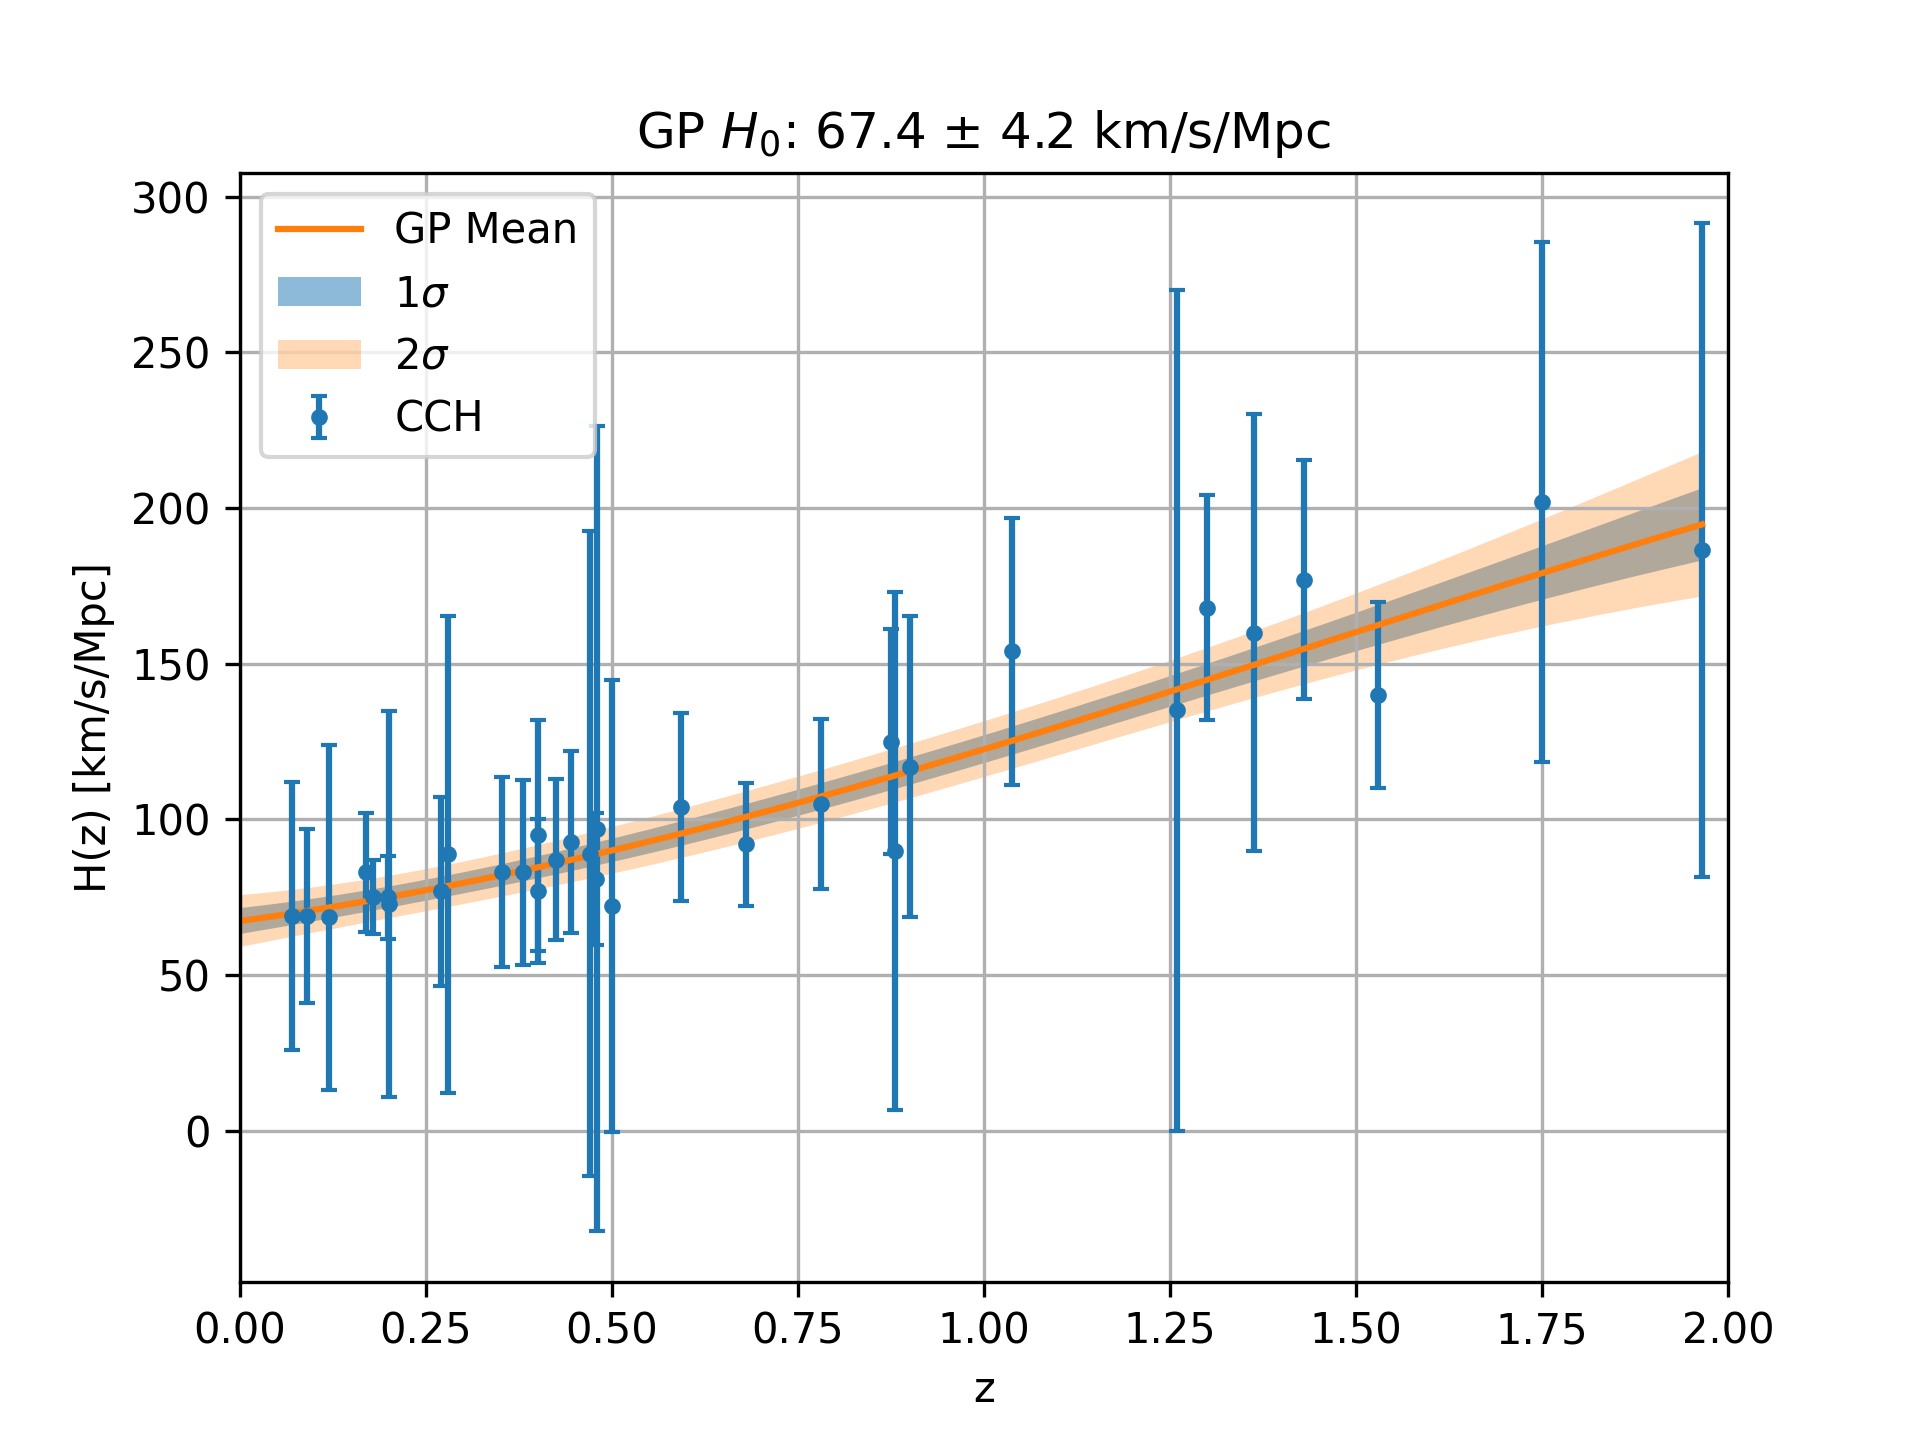
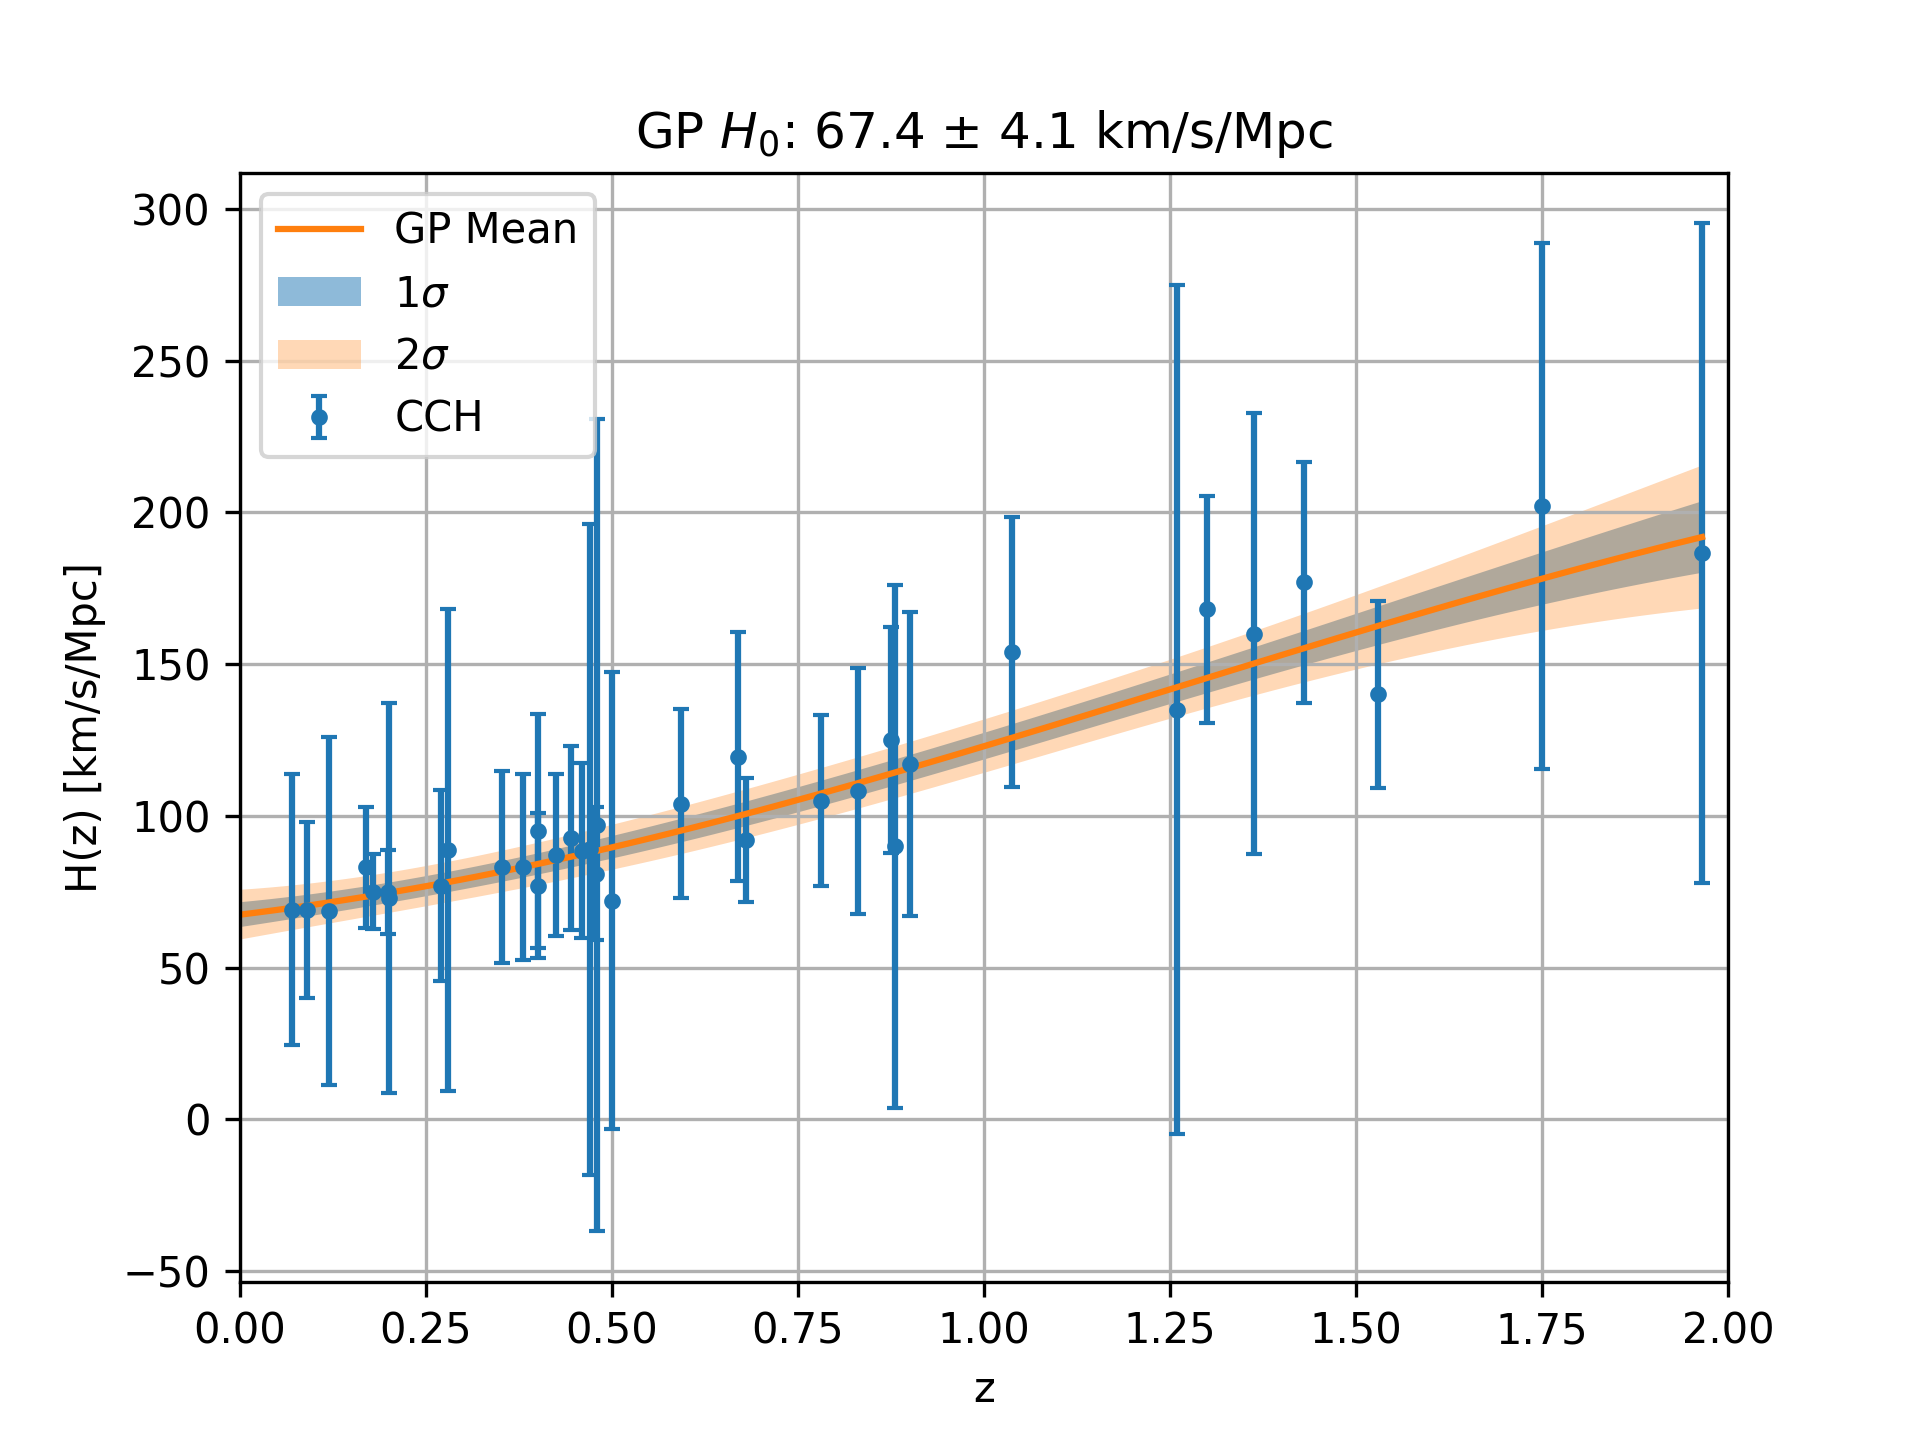
re-run with 3 new data points

diff --git a/cosmic_chronometers/cc.py b/cosmic_chronometers/cc.py
@@ -1,9 +1,10 @@
 from numba import njit
 import numpy as np
+from scipy.constants import c as c0
 from scipy.linalg import cho_factor, solve_triangular
 from y2005cc.data import get_data
 
-c = 299792.458  # Speed of light in km/s
+c = c0 / 1000  # Speed of light in km/s
 
 legend, z_values, H_values, cov_matrix = get_data()
 
@@ -14,7 +15,7 @@ logdet = np.linalg.slogdet(cov_matrix)[1]
 @njit
 def H_z(z, params):
     H0, Om = params[0], params[1]
-    return H0 * np.sqrt(Om * (1 + z) ** 3 + (1 - Om))
+    return H0 * np.sqrt(Om * (1.0 + z) ** 3 + (1.0 - Om))
 
 
 def solve_triang(cho_L, delta):
@@ -51,12 +52,7 @@ def main():
 
     with Pool(5) as pool:
         sampler = Sampler(
-            prior,
-            log_likelihood,
-            n_live=10_000,
-            pool=pool,
-            seed=42,
-            pass_dict=False,
+            prior, log_likelihood, n_live=10_000, pool=pool, seed=42, pass_dict=False
         )
         sampler.run(verbose=True)
 
@@ -112,8 +108,9 @@ if __name__ == "__main__":
 *******************************
 Results for data from
 https://arxiv.org/pdf/2307.09501
-and one data point from
+and 4 data points from
 https://arxiv.org/pdf/2506.03836
+https://arxiv.org/pdf/2511.02730v1
 *******************************
 
 Flat ΛCDM: w(z) = -1
@@ -121,34 +118,34 @@ Flat ΛCDM: w(z) = -1
 -------------------------------
 
 Varying f in U(0.3, 2.6):
-H0: 67.1 +3.7 -3.8
-Ωm: 0.328 +0.052 -0.043
-f: 1.46 +0.19 -0.18
-Chi squared: 31.33
-Log likelihood: -130.53
-Log evidence: -136.67 (Δ logZ = 1.74 compared to fixed f)
-Degs of freedom: 30
+H0: 66.6 +3.7 -3.7
+Ωm: 0.335 +0.051 -0.044
+f: 1.47 +0.18 -0.17
+Chi squared: 34.30
+Log likelihood: -141.63
+Log evidence: -147.83 (diff: -2.21 in evidence favouring the model with f)
+Degs of freedom: 33
 
 -------------------------------
 
 With fixed f = 1:
-H0: 66.6 +5.4 -5.5
-Ωm: 0.334 +0.079 -0.063
+H0: 66.2 +5.4 -5.4
+Ωm: 0.340 +0.079 -0.063
 f: 1
-Chi squared: 14.82
-Log likelihood: -134.65
-Log evidence: -138.41
-Degs of freedom: 31
+Chi squared: 15.92
+Log likelihood: -146.28
+Log evidence: -150.04
+Degs of freedom: 34
 
 *******************************
 
 Log likelihood ratio test:
 -2 * log(L0/L1) = -2 * log(L0) + 2 * log(L1)
--2 * (-134.65) + 2 * (-130.53) = 8.24
+-2 * (-146.28) + 2 * (-141.63) = 9.30
 
 Degrees of freedom = 1
-p-value = 0.0044
-We are 99.84% confident that the model with f is better than the one without f.
+p-value = 0.0023
+We are 99.77% confident that the model with f is better than the one without f.
 So the uncertainties in the H(z) dataset are overestimated and should be scaled down.
 2.5 sigma between f=1 and f=1.46
 """

diff --git a/cosmic_chronometers/cc_gp.py b/cosmic_chronometers/cc_gp.py
@@ -25,7 +25,7 @@ class HubbleGaussianProcess(ExactGP):
     def __init__(self, train_x, train_y, likelihood):
         super(HubbleGaussianProcess, self).__init__(train_x, train_y, likelihood)
         self.covar_module = ScaleKernel(
-            RBFKernel(lengthscale_constraint=Interval(1.2 * z.max(), 3 * z.max()))
+            RBFKernel(lengthscale_constraint=Interval(z.max(), 3 * z.max()))
         )
         self.mean_module = ConstantMean()
 
